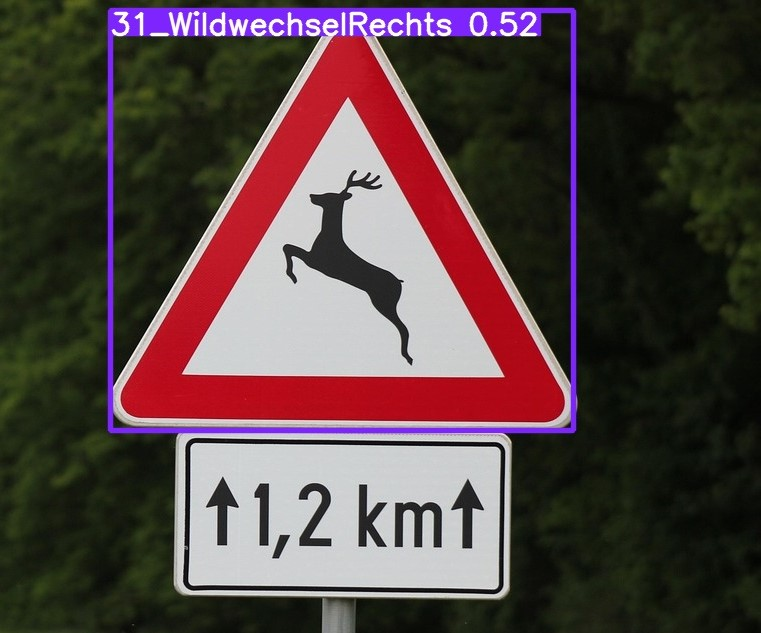
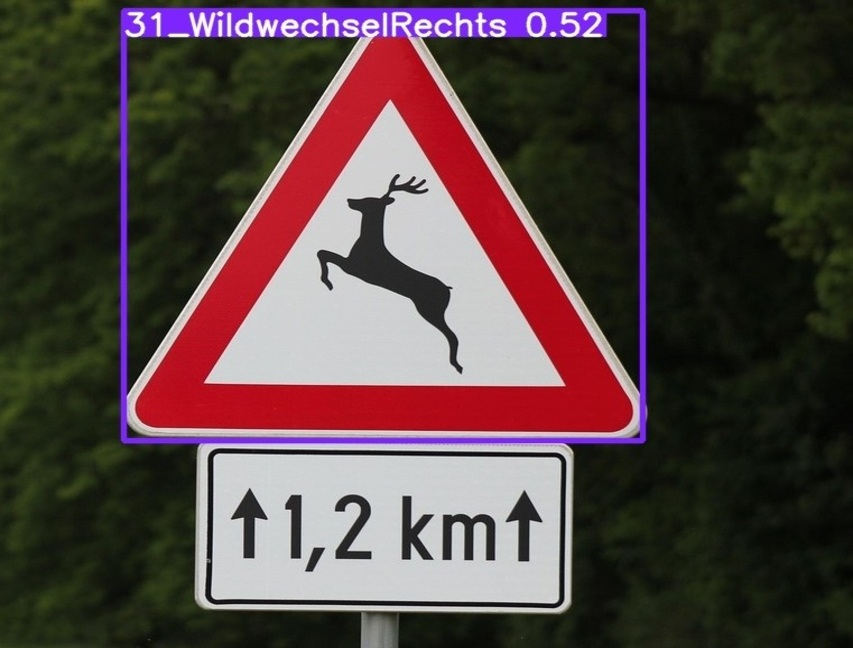
Change img sizes (fits better on README.MD)

diff --git a/README.MD b/README.MD
@@ -7,13 +7,13 @@ A computer-vision project for detecting and classifying traffic signs (bounding 
 <!-- Preview: small thumbnails (centered, clean, no borders) -->
 <div align="center" style="margin: 16px 0;">
   <a href="images/predict/steileKurve.jpg">
-    <img src="images/predict/steileKurve.jpg" alt="steileKurve" width="200" height="220">
+    <img src="images/predict/steileKurve.jpg" alt="steileKurve" width="220" height="260">
   </a>
   <a href="images/predict/vorfahrt_blauerHimmel.jpg">
-    <img src="images/predict/vorfahrt_blauerHimmel.jpg" alt="vorfahrt_blauerHimmel" width="200" height="220">
+    <img src="images/predict/vorfahrt_blauerHimmel.jpg" alt="vorfahrt_blauerHimmel" width="220" height="260">
   </a>
   <a href="images/predict/wild.jpg">
-    <img src="images/predict/wild.jpg" alt="wild" width="200" height="220">
+    <img src="images/predict/wild.jpg" alt="wild" width="220" height="260">
   </a>
 </div>
 
